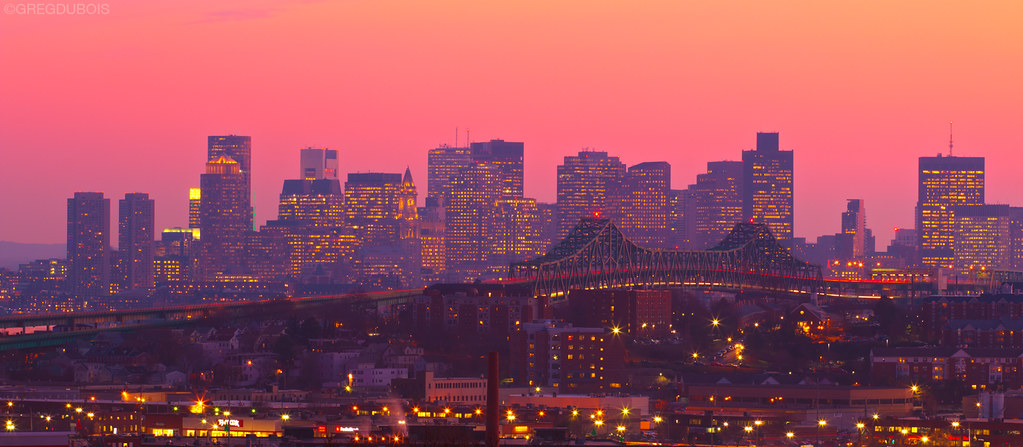
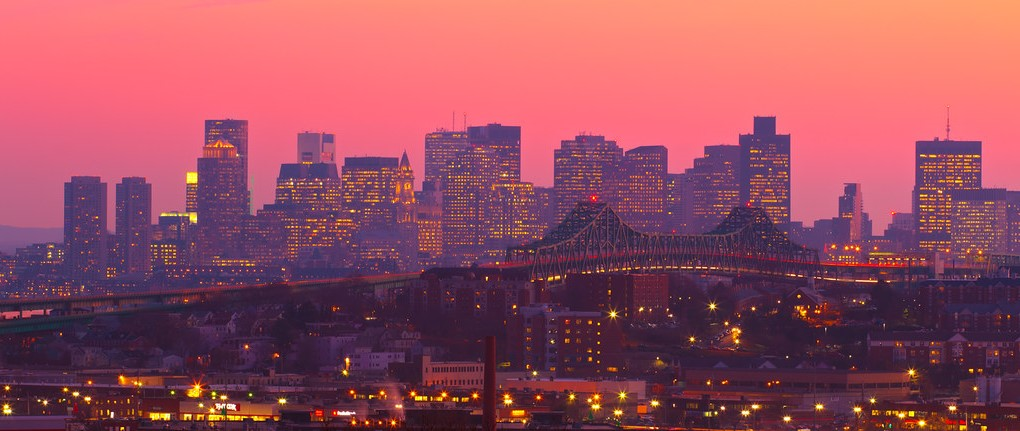
added picture credits, made parallax scroll

diff --git a/site.css b/site.css
@@ -9,6 +9,7 @@ body {
     background-color: #d9d9d9;
     font-family: monospace;
     min-width: 750px;
+    min-height: 650px;
 }
 
 #head {
@@ -17,6 +18,7 @@ body {
 
 #banner {
     background-image: url(Images/banner.jpg);
+    background-attachment: fixed;
     background-size: cover;
     background-repeat: no-repeat;
     background-position: center;
@@ -67,7 +69,7 @@ body {
 }
 
 .tabheader {
-    padding-top:50px;
+    padding-top:70px;
     background-color: white;
     background-clip: content-box;
     color:#ffcccc;

diff --git a/Timeline.html b/Timeline.html
@@ -27,6 +27,7 @@
             <!-- Use any element to open/show the overlay navigation menu --
             <button class="contactButton" onclick="openNav()">Contact Me</button>
             -->
+            <div style="position:absolute; top:8px; right: 16px">picture credit: GREGDUBOIS</div>
         </div>
         <div id="myNav" class="overlay">
 
